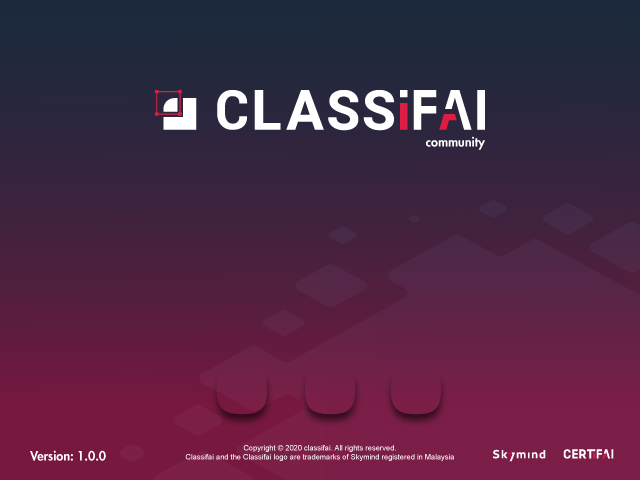
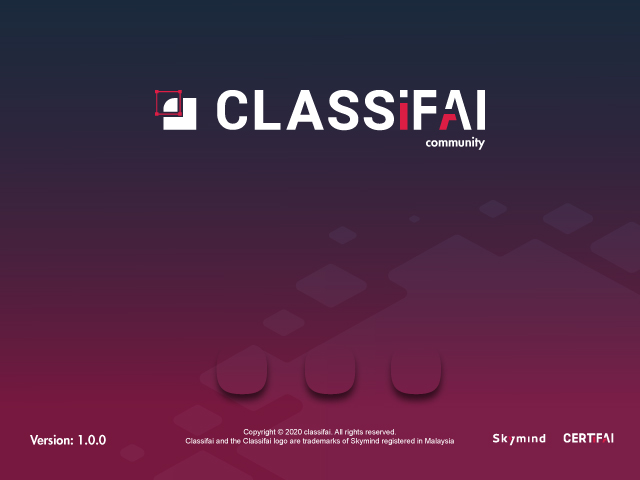
wip

Changed region(s): [[0.2812, 0.7812, 0.7188, 0.9688], [0.75, 0.875, 0.9688, 0.9688], [0.0312, 0.9062, 0.1875, 0.9688]]

diff --git a/classifai-core/src/main/java/ai/classifai/ui/WelcomeConsole.java b/classifai-core/src/main/java/ai/classifai/ui/WelcomeConsole.java
@@ -17,7 +17,6 @@ package ai.classifai.ui;
 
 import ai.classifai.server.ParamConfig;
 import lombok.extern.slf4j.Slf4j;
-import org.apache.commons.io.FileUtils;
 
 import javax.imageio.ImageIO;
 import javax.swing.*;
@@ -25,8 +24,6 @@ import java.awt.*;
 import java.awt.event.ActionEvent;
 import java.awt.event.ActionListener;
 import java.awt.image.BufferedImage;
-import java.io.*;
-import java.net.URL;
 
 
 /**
@@ -45,13 +42,13 @@ public class WelcomeConsole
     private static int frameWidth;
     private static int frameHeight;
 
-    final static int BTN_X_COORD = 220;
-    final static int BTN_Y_COORD = 365;
+    final static int BTN_X_COORD = 217;
+    final static int BTN_Y_COORD = 347;
 
     final static int BTN_WIDTH = 50;
     final static int BTN_HEIGHT = 50;
 
-    final static int X_GAP = 85;
+    final static int X_GAP = 88;
 
     static
     {
@@ -64,7 +61,7 @@ public class WelcomeConsole
     {
         JFrame frame = new JFrame("Classifai");
 
-        JButton openButton = getButton("Classifai_WelcomeHandler_A_Open.png", "Open");
+        JButton openButton = getButton("Open_Button.png", "Open");
         openButton.setBounds(BTN_X_COORD + X_GAP * 0, BTN_Y_COORD, BTN_WIDTH, BTN_HEIGHT);
 
         openButton.addActionListener(new ActionListener() {
@@ -74,7 +71,7 @@ public class WelcomeConsole
             }
         });
 
-        JButton closeButton = getButton("Classifai_WelcomeHandler_A_Close.png", "Close");
+        JButton closeButton = getButton("Close_Button.png", "Close");
         closeButton.setBounds(BTN_X_COORD + X_GAP * 1, BTN_Y_COORD, BTN_WIDTH, BTN_HEIGHT);
 
         closeButton.addActionListener(new ActionListener() {
@@ -84,8 +81,8 @@ public class WelcomeConsole
             }
         });
 
-        JButton acknowledgementButton = getButton("Classifai_WelcomeHandler_A_Acknowledgements.png", "License");
-        acknowledgementButton.setBounds(BTN_X_COORD + X_GAP * 2, BTN_Y_COORD, BTN_WIDTH, BTN_HEIGHT);
+        JButton acknowledgementButton = getButton("Acknowledge_Button.png", "License");
+        acknowledgementButton.setBounds(BTN_X_COORD + (X_GAP * 2) - 2, BTN_Y_COORD, BTN_WIDTH, BTN_HEIGHT);
 
         frame.add(openButton);
         frame.add(closeButton);
